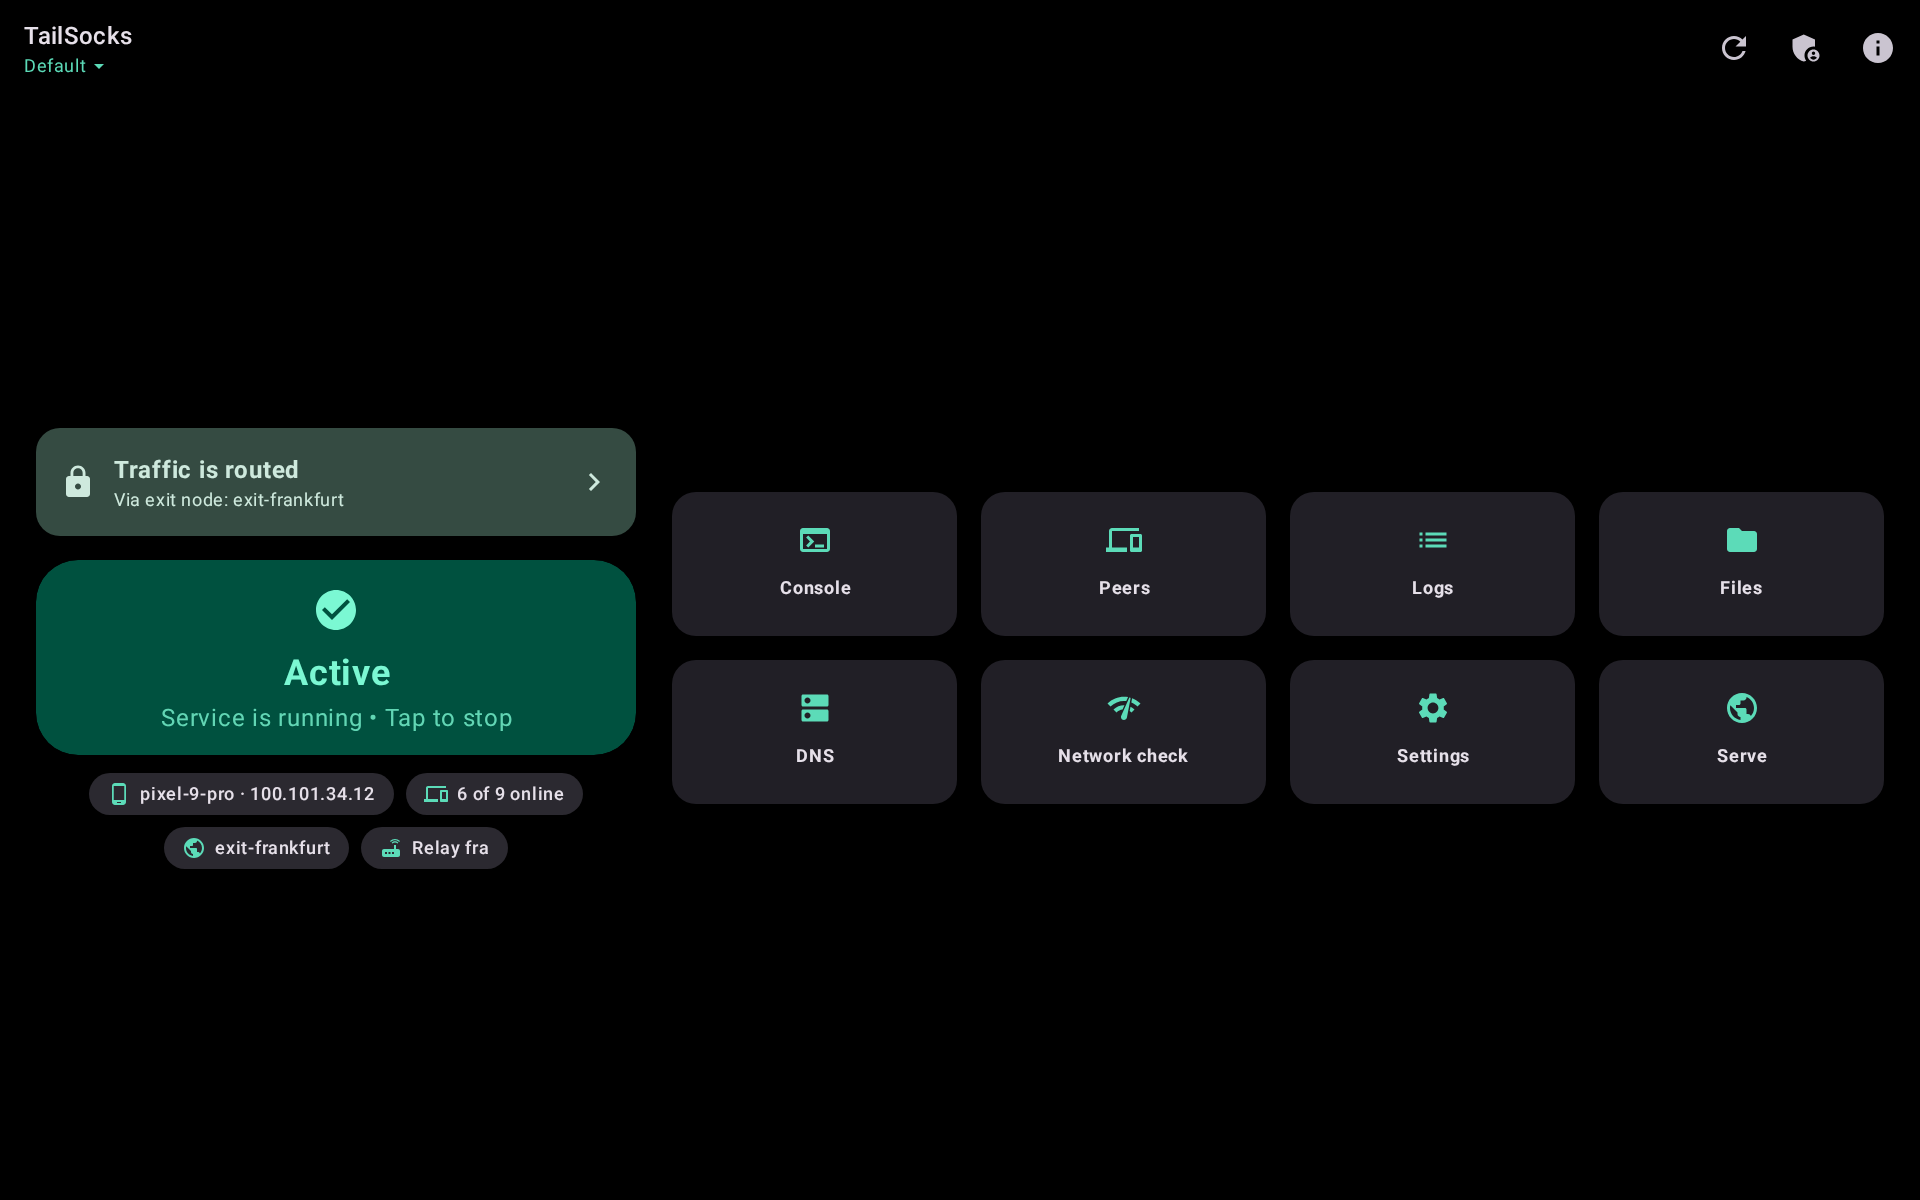
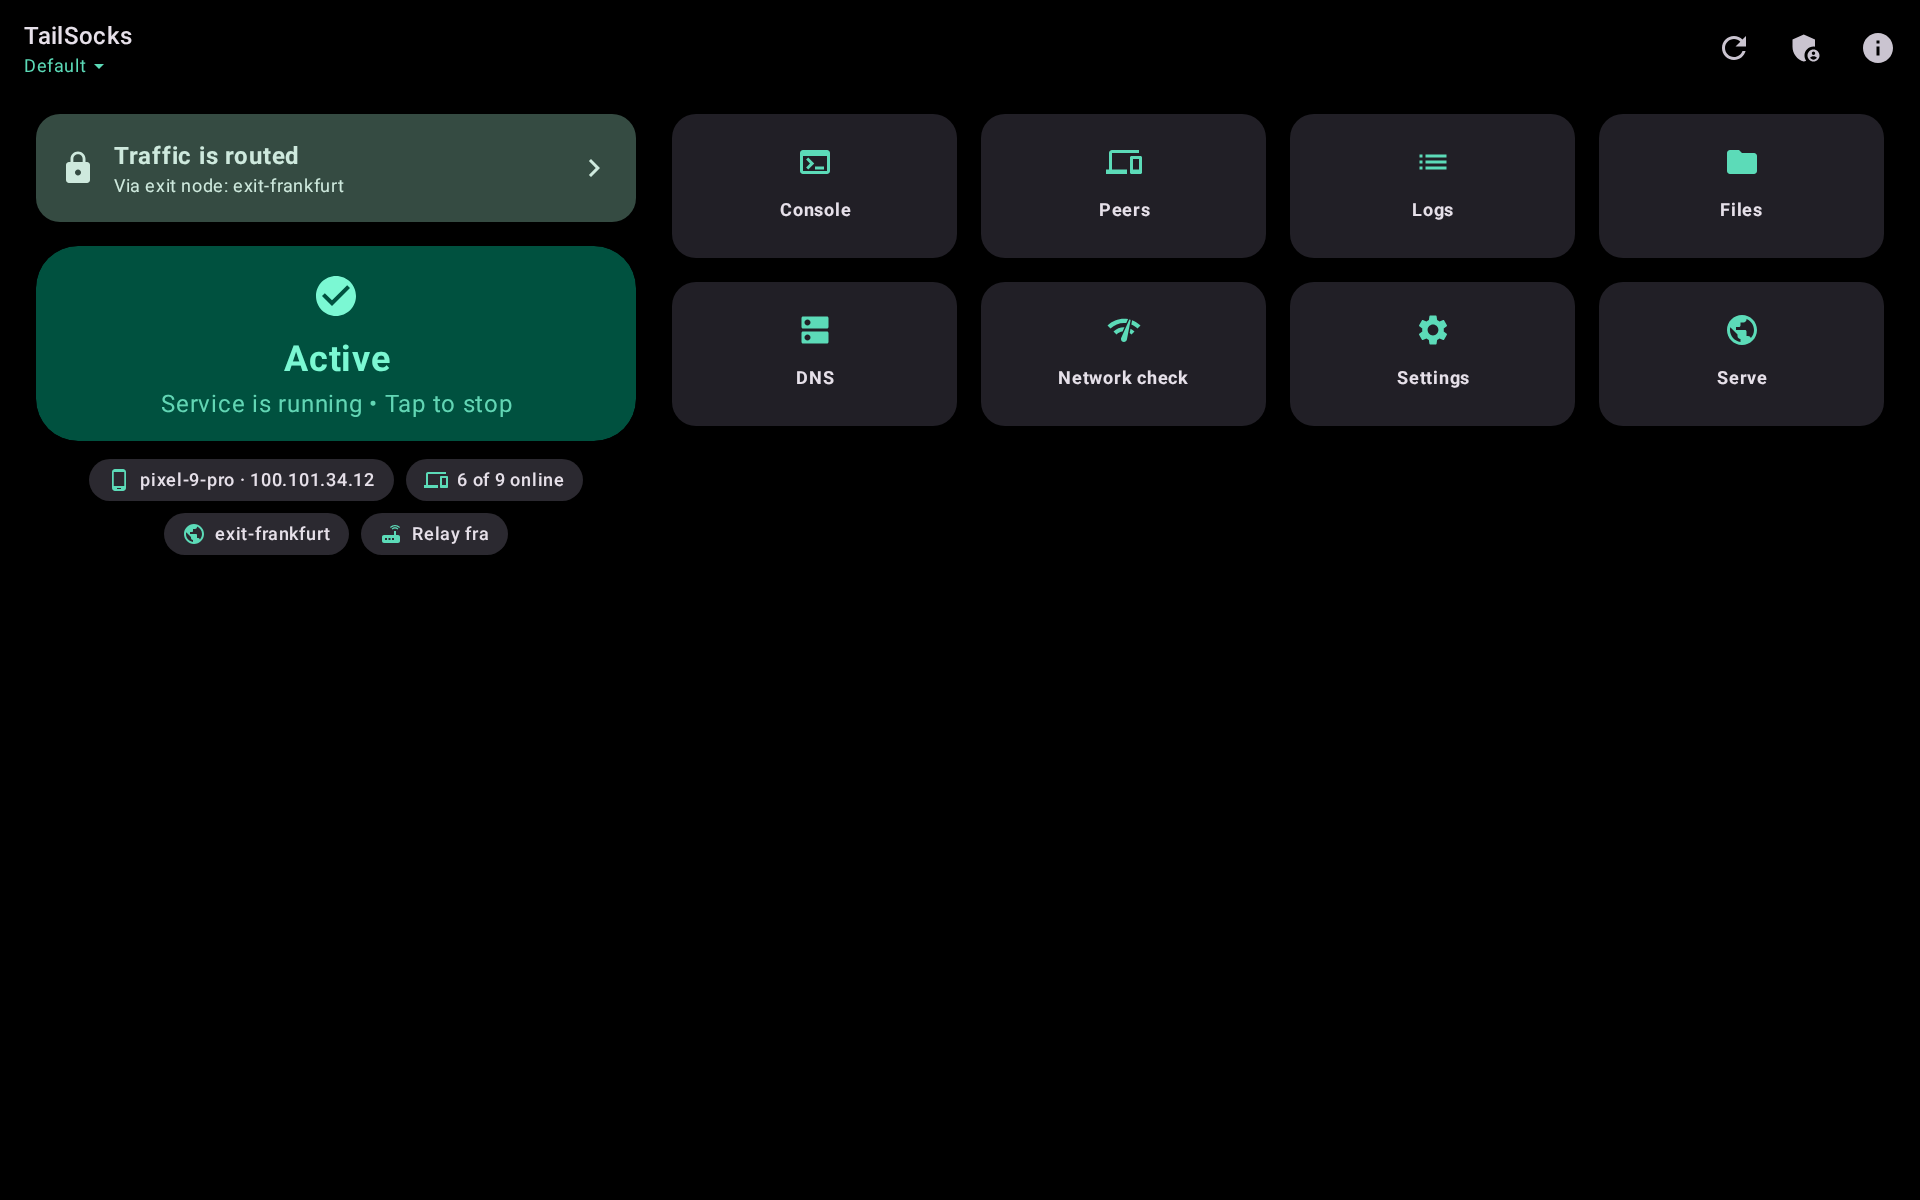
fix(ui): the main screen on a tablet, upright and on its side
The author's Lenovo tablet (800x1280 px at 213 dpi, 600x960dp) showed the
main screen as two panes upright, both centred vertically: a card and a
grid floating in the middle of an empty screen; on its side the same, with
the card shorter than the grid beside it.

Two panes now want a window lying on its side (or a book-posture fold),
not just 600dp of width: upright, a tablet gets the phone's single column,
held to the readable width, with the menu four across. The menu's column
count comes from one rule everywhere (menuColumnsFor): as many cards of
100dp as fit, rounded down to a count that divides the eight entries, so
no row is left half empty; a phone upright keeps its two.

Beside the menu the panes start under the top bar instead of mid-screen
(a short window, a phone on its side, still centres them), and they share
one row whose height is the taller pane's: the status card takes whatever
its column has left, so the column ends where the grid does whether or not
the exit-node line sits above the card, and a column that is already
taller — banners, the summary — is left alone. Intrinsic heights rather
than a measured one, because the preview renders a single frame.

Previews gain the Lenovo's two geometries. A phone upright renders pixel
for pixel as before; the README's tablet and foldable shots and the
ten-inch store screenshots are regenerated.

diff --git a/app/src/main/java/io/github/bropines/tailscaled/ui/MainActivity.kt b/app/src/main/java/io/github/bropines/tailscaled/ui/MainActivity.kt
@@ -1219,7 +1219,9 @@ fun MainScreen(
         // is width for it, which is landscape and every tablet — before this
         // the same column simply grew wider, and eight menu cards stretched
         // into slabs.
-        val statusPane: @Composable ColumnScope.() -> Unit = {
+        // fillHeight: beside the menu, the card takes the height the status
+        // column has left, so the pair ends on one line (see the two-pane layout).
+        val statusPane: @Composable ColumnScope.(fillHeight: Boolean) -> Unit = { fillHeight ->
 
             if (!isBatteryOptimizationsIgnored) {
                 Surface(
@@ -1393,6 +1395,7 @@ fun MainScreen(
             }
             StatusCard(
                 state = cardState,
+                modifier = if (fillHeight) Modifier.weight(1f) else Modifier,
                 issueTitle = shownWarnings.firstOrNull()?.let { healthTitle(it) },
                 isProcessing = isProcessing,
                 isTunEnabled = isTunEnabled,
@@ -1521,12 +1524,19 @@ fun MainScreen(
             val fold = rememberFold()
             val insetStart = paddingValues.calculateStartPadding(androidx.compose.ui.platform.LocalLayoutDirection.current)
             val insetTop = paddingValues.calculateTopPadding()
-            val wideEnoughForTwoPanes = maxWidth >= 600.dp || fold is Fold.Vertical
+            // Two panes want width and a window lying on its side. Upright, a
+            // tablet's 600dp is one comfortable column; split in two it was a
+            // card and a grid floating in the middle of an empty screen (a
+            // Lenovo tablet, 600x960dp, 2026-09-30).
+            val wideEnoughForTwoPanes = fold is Fold.Vertical || (maxWidth >= 600.dp && maxWidth > maxHeight)
             // Landscape on a phone leaves about 390dp of height, so the cards
             // give some of it back; upright there is room to spare.
             val cardHeight = if (maxHeight < 440.dp) 84.dp else 96.dp
+            // A short window centres its panes, which then fill it anyway; a
+            // tall one starts them under the top bar, where the eye does.
+            val paneArrangement = if (maxHeight < 480.dp) Arrangement.Center else Arrangement.Top
             if (fold is Fold.Horizontal) {
-                val menuColumns = ((maxWidth - 48.dp) / 150.dp).toInt().coerceIn(2, 4)
+                val menuColumns = menuColumnsFor(maxWidth - 48.dp)
                 Column(modifier = Modifier.fillMaxSize()) {
                     Column(
                         modifier = Modifier
@@ -1537,7 +1547,7 @@ fun MainScreen(
                         horizontalAlignment = Alignment.CenterHorizontally,
                         verticalArrangement = Arrangement.Center
                     ) {
-                        statusPane()
+                        statusPane(false)
                     }
                     Spacer(modifier = Modifier.height(fold.bottom - fold.top))
                     Column(
@@ -1564,46 +1574,57 @@ fun MainScreen(
                 // tablet in portrait can have the same window and very
                 // different room left over here.
                 val menuWidth = maxWidth - statusWidth - paneGap - 48.dp
-                val menuColumns = (menuWidth / 150.dp).toInt().coerceIn(2, 4)
-                Row(modifier = Modifier.fillMaxSize().padding(horizontal = 24.dp)) {
-                    Column(
-                        modifier = Modifier
-                            .width(statusWidth)
-                            .fillMaxHeight()
-                            .verticalScroll(rememberScrollState()),
-                        horizontalAlignment = Alignment.CenterHorizontally,
-                        verticalArrangement = Arrangement.Center
-                    ) {
-                        statusPane()
-                    }
-                    Spacer(modifier = Modifier.width(paneGap))
-                    Column(
-                        modifier = Modifier
-                            .weight(1f)
-                            .fillMaxHeight()
-                            .verticalScroll(rememberScrollState()),
-                        verticalArrangement = Arrangement.Center
-                    ) {
-                        Spacer(modifier = Modifier.height(12.dp))
-                        // Three columns are only worth it once a card would not
-                        // be cramped; below that two read better than three.
-                        menuPane(menuColumns, cardHeight)
-                        Spacer(modifier = Modifier.height(12.dp))
-                    }
-                }
-            } else {
+                val menuColumns = menuColumnsFor(menuWidth)
+                // One row for the pair, as tall as the taller of the two. The
+                // card takes up whatever the status column has left, so beside
+                // a taller grid the column ends where the grid does — with the
+                // exit-node line above the card or without it — and a column
+                // that is already taller (banners, the summary) is left alone.
+                // Intrinsic heights, not a measurement: the preview renders
+                // one frame, and a measured height lands only on the second.
                 Column(
                     modifier = Modifier
                         .fillMaxSize()
-                        .padding(horizontal = 24.dp)
+                        .verticalScroll(rememberScrollState())
+                        .heightIn(min = maxHeight)
+                        .padding(horizontal = 24.dp),
+                    verticalArrangement = paneArrangement
+                ) {
+                    Spacer(modifier = Modifier.height(12.dp))
+                    Row(modifier = Modifier.fillMaxWidth().height(IntrinsicSize.Min)) {
+                        Column(
+                            modifier = Modifier.width(statusWidth).fillMaxHeight(),
+                            horizontalAlignment = Alignment.CenterHorizontally
+                        ) {
+                            statusPane(true)
+                        }
+                        Spacer(modifier = Modifier.width(paneGap))
+                        Column(modifier = Modifier.weight(1f)) {
+                            menuPane(menuColumns, cardHeight)
+                        }
+                    }
+                    Spacer(modifier = Modifier.height(12.dp))
+                }
+            } else {
+                // One column, held to a readable width on an upright tablet;
+                // on a phone that is the whole width and two menu columns.
+                val columnWidth = minOf(maxWidth, ReadableContentWidth)
+                Column(
+                    modifier = Modifier
+                        .fillMaxSize()
                         .verticalScroll(rememberScrollState()),
                     horizontalAlignment = Alignment.CenterHorizontally
                 ) {
-                    Spacer(modifier = Modifier.height(12.dp))
-                    statusPane()
-                    Spacer(modifier = Modifier.height(32.dp))
-                    menuPane(2, cardHeight)
-                    Spacer(modifier = Modifier.height(16.dp))
+                    Column(
+                        modifier = Modifier.width(columnWidth).padding(horizontal = 24.dp),
+                        horizontalAlignment = Alignment.CenterHorizontally
+                    ) {
+                        Spacer(modifier = Modifier.height(12.dp))
+                        statusPane(false)
+                        Spacer(modifier = Modifier.height(32.dp))
+                        menuPane(menuColumnsFor(columnWidth - 48.dp), cardHeight)
+                        Spacer(modifier = Modifier.height(16.dp))
+                    }
                 }
             }
         }
@@ -2363,6 +2384,7 @@ fun StatusCard(
     issueTitle: String? = null,
     /** Shown in place of the card's own subtitle while it is set. */
     aside: String? = null,
+    modifier: Modifier = Modifier,
     onLongPress: () -> Unit = {},
     onToggle: () -> Unit
 ) {
@@ -2396,7 +2418,7 @@ fun StatusCard(
     Surface(
         shape = shape,
         color = backgroundColor,
-        modifier = Modifier
+        modifier = modifier
             .fillMaxWidth()
             .heightIn(min = 130.dp)
             .animateContentSize()
@@ -2539,6 +2561,17 @@ data class MenuEntry(val title: String, val icon: ImageVector, val onClick: () -
  * up short is padded with empty weight, so the last card is the width of the
  * others and not the width of the row.
  */
+/**
+ * How many menu columns [width] holds: as many cards of at least 100dp as fit
+ * with MenuGrid's 16dp gaps, between two and four, then down to a count that
+ * divides the [entries] evenly — eight cards as 4+4 or 2+2+2+2, never a row
+ * left with two cards and an empty hole.
+ */
+fun menuColumnsFor(width: Dp, entries: Int = 8): Int {
+    val fit = ((width + 16.dp) / 116.dp).toInt().coerceIn(2, 4)
+    return (fit downTo 2).firstOrNull { entries % it == 0 } ?: 2
+}
+
 @Composable
 fun MenuGrid(columns: Int, entries: List<MenuEntry>, cardHeight: Dp = 96.dp, modifier: Modifier = Modifier) {
     Column(modifier = modifier.fillMaxWidth()) {

diff --git a/app/src/screenshotTest/kotlin/io/github/bropines/tailscaled/ui/LayoutPreviews.kt b/app/src/screenshotTest/kotlin/io/github/bropines/tailscaled/ui/LayoutPreviews.kt
@@ -27,6 +27,9 @@ import io.github.bropines.tailscaled.ui.theme.TailSocksTheme
 @Preview(name = "phone-landscape", device = "spec:width=852dp,height=393dp,dpi=420")
 @Preview(name = "foldable-open", device = "spec:width=673dp,height=841dp,dpi=420")
 @Preview(name = "tablet", device = "spec:width=1280dp,height=800dp,dpi=240")
+// The author's Lenovo tablet, both ways: 800x1280 px at 213 dpi.
+@Preview(name = "tablet-small-portrait", device = "spec:width=600dp,height=960dp,dpi=213")
+@Preview(name = "tablet-small-landscape", device = "spec:width=960dp,height=600dp,dpi=213")
 annotation class Geometries
 
 private val sampleMenu = listOf(

diff --git a/CHANGELOG.md b/CHANGELOG.md
@@ -14,6 +14,7 @@ All notable changes to the TailSocks project will be documented in this file. Th
 - Two builds of one commit could pull different versions of a network library the core depends on.
 - "DNS unavailable" no longer turns the card into a connection problem where the app's DNS proxy answers from the fallback servers; it clears once Tailscale's DNS answers again instead of lingering for hours.
 - While Tailscale's DNS does not answer, the DNS proxy stops waiting five seconds on every new name.
+- Tablets: upright, the main screen is one column with a four-wide menu; on its side, the status card lines up with the menu instead of both floating mid-screen.
 
 ## [4.5.1] - 2026-09-30
 
